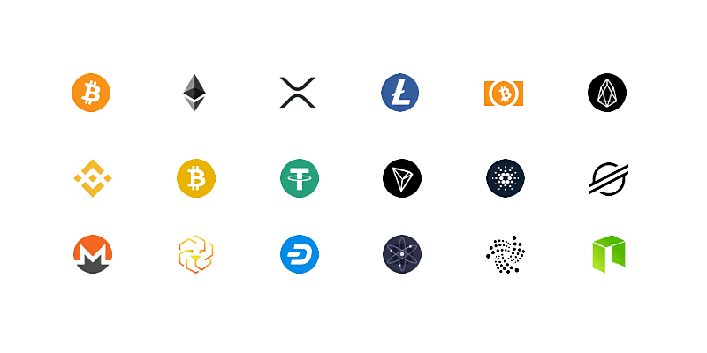
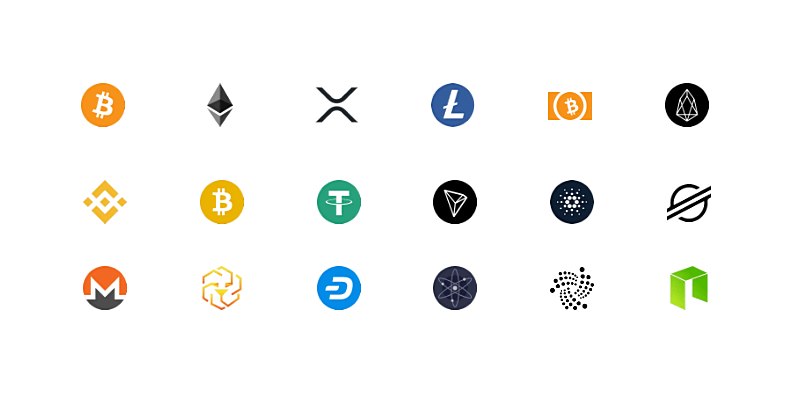
v1.3 done

diff --git a/index.html b/index.html
@@ -148,7 +148,7 @@
 						</li>
 						<li>
 							<a class="getstarted" href=""
-								>Buy Now</a
+								>Join Pre-sale </a
 							>
 						</li>
 					</ul>
@@ -182,7 +182,7 @@
 						<h2>Universally accepted</h2>
 						<div class="hero-sol">
 							<a href="#about" class="btn-get-started scrollto"
-								>Buy Now</a
+								>Join Pre-sale </a
 							>
 
 							<div class="sol">
@@ -377,7 +377,7 @@
 									communinty
 								</li>
 							</ul>
-							<a href="#" class="btn-get-started">Buy Now</a>
+							<a href="#" class="btn-get-started">Join Pre-sale </a>
 						</div>
 					</div>
 				</div>
@@ -385,7 +385,7 @@
 			<!-- End About Us Section -->
 
 			<!-- ======= Why Us Section ======= -->
-			<section id="why-us" class="why-us colour-bg">
+			<section id="why-us" class="why-us white-bg">
 				<div class="container-fluid" data-aos="fade-up">
 					<div class="row">
 						<div
@@ -541,7 +541,7 @@
 								col-lg-12
 								align-items-stretch
 								order-1 order-lg-2
-								img
+								img secure-img
 							"
 							style="
 								background-image: url('./assets/img/clients/crypto-icons.png');
@@ -654,7 +654,7 @@
 			<!-- End Skills Section -->
 
 			<!-- ======= Road Map Section ======= -->
-			<section id="services" class="services white-bg">
+			<section id="services" class="services colour-bg">
 				<div class="container roadmap" data-aos="fade-up">
 					<div class="section-title">
 						<h2>Road Map</h2>
@@ -748,10 +748,10 @@
 			<!-- End Services Section -->
 
 			<!-- ======= Cta Section ======= -->
-			<section id="cta" class="cta colour-bg">
+			<section id="cta" class="cta white-bg">
 				<div class="container" data-aos="zoom-in">
 					<div class="row">
-						<div class="col-lg-9 text-center text-lg-start">
+						<div class="col-lg-12 text-center text-lg-start">
 							<h3>The Opportnty of a Life-time</h3>
 							<p>
 								Duis aute irure dolor in reprehenderit in
@@ -761,9 +761,9 @@
 								officia deserunt mollit anim id est laborum.
 							</p>
 						</div>
-						<div class="col-lg-3 cta-btn-container text-center">
+						<div class="col-lg-12 cta-btn-container text-center">
 							<a class=" align-middle btn-get-started" href="#"
-								>Buy Now</a
+								>Join Pre-sale </a
 							>
                         
 						</div>
@@ -1242,7 +1242,7 @@
 			<!-- End Team Section -->
 
 			<!-- ======= community  ======= -->
-			<section id="community" class="pricing com-bg">
+			<section id="community" class="pricing colour-bg">
 				<div class="container community-container" data-aos="fade-up">
 					<div class="section-title">
 						<h2>Join The Communites</h2>
@@ -1289,9 +1289,14 @@
 									</li>
 								</ul> -->
 								<div class="community-btns">
-                                    <a href="#" class="buy-btn">Discord</a>
-                                    <a href="#" class="buy-btn">Telegram</a>
-                                    <a href="#" class="buy-btn">Twitter</a>
+                                    
+                                        <a href="#" class="buy-btn"><i class="bx bxl-discord com-icons"></i
+                                            >Discord</a>
+                                  
+                                    <a href="#" class="buy-btn"><i class="bx bxl-telegram com-icons"></i
+                                        >Telegram</a>
+                                    <a href="#" class="buy-btn"><i class="bx bxl-twitter com-icons"></i
+                                        >Twitter</a>
                                 </div>
                                 
 							</div>
@@ -1656,7 +1661,7 @@
 
 		<!-- ======= Footer ======= -->
 		<footer id="footer">
-			<div class="footer-newsletter colour-bg">
+			<div class="footer-newsletter bg-white">
 				<div class="container ">
 					<div class="row justify-content-center">
 						<div class="col-lg-6">
@@ -1672,14 +1677,14 @@
 								/>
 							</form> -->
                             <a href="#" class="btn-get-started scrollto"
-                            >Buy Now</a
+                            >Join Pre-sale </a
                         >
 						</div>
 					</div>
 				</div>
 			</div>
 
-			<div class="footer-top">
+			<div class="footer-top colour-bg">
 				<div class="container">
 					<!-- <div class="row">
 						<div class="col-lg-3 col-md-6 footer-contact">

diff --git a/assets/css/style.css b/assets/css/style.css
@@ -484,7 +484,7 @@ h6 {
 	margin: 10px 5px 0 0;
 	color: #fff;
 	background: #1c80f9;
-	min-width: 150px;
+	min-width: 200px;
 	text-align: center;
 }
 
@@ -572,6 +572,7 @@ h6 {
 	}
 	#hero .hero-img img {
 		width: 70%;
+        margin-top: 50px;
 	}
 }
 
@@ -768,6 +769,10 @@ section {
 	display: flex;
 	flex-direction: column;
 	align-items: center;
+}
+
+.secure-img {
+    margin: 0 -15px;
 }
 
 .why-us-content h3 {
@@ -1031,6 +1036,7 @@ section {
 	color: #1c80f9;
 	font-size: 28px;
 	font-weight: 700;
+    margin-bottom: 20px;
 }
 
 .cta p {
@@ -1066,7 +1072,7 @@ section {
 	.cta .cta-btn-container {
 		display: flex;
 		align-items: center;
-		justify-content: flex-end;
+		justify-content: center;
 	}
 }
 
@@ -1343,6 +1349,14 @@ section {
 .community-container {
 	max-width: 500px;
 	justify-content: center;
+}
+
+.com-icons {
+    margin-right: 10px;
+    font-size: 20px;
+    vertical-align: middle;
+ 
+    
 }
 
 .community-btns a {
